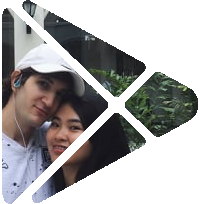
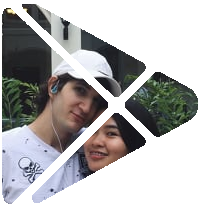
[FEATURE] Adding an animation on Home block for the image

diff --git a/src/pages/home.vue b/src/pages/home.vue
@@ -66,7 +66,6 @@ export default {
 		},
 		async get_my_identity() {
 			const my_identity = await api.get_my_identity();
-			console.log(my_identity);
 			const image_path = my_identity.image !== null ? my_identity.image_alternative.path : null;
 			this.update_introduction(my_identity.fullname, my_identity.email, image_path, my_identity.android_url);
 		},

diff --git a/src/assets/less/introduction_link.less b/src/assets/less/introduction_link.less
@@ -64,6 +64,12 @@
 	&.mounted .links-open-door {
 		top: 80%;
 	}
+
+	.bloc:hover {
+		& img {
+			filter: sepia(1);
+		}
+	}
 }
 
 @media screen and (max-width: @PHONE_MQ) {

diff --git a/src/assets/less/introduction.less b/src/assets/less/introduction.less
@@ -16,8 +16,8 @@
 	.font-size(3);
 
 	& img {
-		width: 150px;
-		height: 150px;
+		width: 165px;
+		height: 165px;
 		margin-bottom: 30px;
 	}
 
